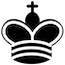
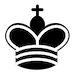
made piece size and square size equal for ease

diff --git a/src/utilities.py b/src/utilities.py
@@ -1,5 +1,4 @@
-from board import bd_obj, BD_SZ, SQ_SZ 
-from pieces.config import x_pos, p_size
+from board import bd_obj, BD_SZ, SQ_SZ
 from pieces.pieces import (
     w_pawns, b_pawns,
     w_majors, b_majors
@@ -13,25 +12,21 @@ def display_all(screen):
 
     bd_obj.show(screen)
 
-    x_change = x_pos
     for pawn in w_pawns:
-        if not pawn.captured:
-            pawn.show(screen) 
-        x_change += SQ_SZ
+        # if not pawn.captured:
+        pawn.show(screen)
 
     for w_piece in w_majors:
-        if not w_piece.captured:
-            w_piece.show(screen)
+        # if not w_piece.captured:
+        w_piece.show(screen)
 
-    x_change = x_pos
     for pawn in b_pawns:
-        if not pawn.captured:
-            pawn.show(screen) 
-        x_change += SQ_SZ
+        # if not pawn.captured:
+        pawn.show(screen) 
 
     for b_piece in b_majors:
-        if not b_piece.captured:
-            b_piece.show(screen)
+        # if not b_piece.captured:
+        b_piece.show(screen)
 
 
 def calc_sq_pos(mouse_pos):
@@ -40,7 +35,7 @@ def calc_sq_pos(mouse_pos):
     coeff_x = mouse_pos[0] // SQ_SZ
     coeff_y = mouse_pos[1] // SQ_SZ
 
-    return (SQ_SZ * coeff_x + 5, SQ_SZ * coeff_y + 5)
+    return (SQ_SZ * coeff_x, SQ_SZ * coeff_y)
 
 
 def fetch_piece(req_pos):
@@ -94,32 +89,32 @@ def flip_board():
     for w_pawn in w_pawns:
         w_pawn.set_pos(
             (
-                BD_SZ - w_pawn.pos[0] - p_size,
-                BD_SZ - w_pawn.pos[1] - p_size
+                BD_SZ - w_pawn.pos[0] - SQ_SZ,
+                BD_SZ - w_pawn.pos[1] - SQ_SZ
             )
         )
 
     for b_pawn in b_pawns:
         b_pawn.set_pos(
             (
-                BD_SZ - b_pawn.pos[0] - p_size,
-                BD_SZ - b_pawn.pos[1] - p_size
+                BD_SZ - b_pawn.pos[0] - SQ_SZ,
+                BD_SZ - b_pawn.pos[1] - SQ_SZ
             )
         )
 
     for w_major in w_majors:
         w_major.set_pos(
             (
-                BD_SZ - w_major.pos[0] - p_size,
-                BD_SZ - w_major.pos[1] - p_size
+                BD_SZ - w_major.pos[0] - SQ_SZ,
+                BD_SZ - w_major.pos[1] - SQ_SZ
             )
         )
 
     for b_major in b_majors:
         b_major.set_pos(
             (
-                BD_SZ - b_major.pos[0] - p_size,
-                BD_SZ - b_major.pos[1] - p_size
+                BD_SZ - b_major.pos[0] - SQ_SZ,
+                BD_SZ - b_major.pos[1] - SQ_SZ
             )
         )
 

diff --git a/src/pieces/pieces.py b/src/pieces/pieces.py
@@ -1,4 +1,4 @@
-from board import BD_SZ, SQ_SZ
+from board import BD_SZ, SQ_SZ, bd_x, bd_y
 from .config import *
 
 from .pawn import Pawn
@@ -75,21 +75,21 @@ def load_all_img():
 def set_pos_all():
     '''Set position of all objects'''
 
-    x_change = x_pos
+    x_change = 0
     for pawn in w_pawns:
-        pawn.set_pos((x_change, down_y_pos - SQ_SZ)) 
+        pawn.set_pos((bd_x + x_change, bd_y + BD_SZ - 2 * SQ_SZ)) 
         x_change += SQ_SZ
 
     for i, w_piece in enumerate(w_majors):
-        w_piece.set_pos((x_pos + (SQ_SZ * i), down_y_pos))
+        w_piece.set_pos((bd_x + SQ_SZ * i, bd_y + BD_SZ - SQ_SZ))
 
-    x_change = x_pos
+    x_change = 0
     for pawn in b_pawns:
-        pawn.set_pos((x_change, up_y_pos + SQ_SZ)) 
+        pawn.set_pos((bd_x + x_change, bd_y + SQ_SZ)) 
         x_change += SQ_SZ
 
     for i, b_piece in enumerate(b_majors):
-        b_piece.set_pos((x_pos + (SQ_SZ * i), up_y_pos))
+        b_piece.set_pos((bd_x + SQ_SZ * i, bd_y))
 
 
 def main():

diff --git a/src/game.py b/src/game.py
@@ -1,5 +1,4 @@
 import colour
-from board import bd_obj
 from config import S_WIDTH, S_HEIGHT
 from utilities import (
     display_all,
@@ -33,7 +32,7 @@ def gameplay(screen):
                 highlight_square(
                     screen,
                     colour.RED,
-                    (sq_pos1[0] - 5, sq_pos1[1] - 5)
+                    (sq_pos1[0], sq_pos1[1])
                 )
 
         for event in pygame.event.get():
@@ -76,8 +75,11 @@ def gameplay(screen):
                         piece.move(sq_pos2)
                     else:
                         print('Piece 2 :', piece)
-                        piece2.captured = True
+                        # piece2.captured = True 
+                        ''' Doesn't quite work because 
+                        the one in the list is unaffected'''
                         delete_piece(piece2)
+                        # For now it's ok, but later preserve state to move back & forth
                         piece.move(sq_pos2)
 
 

diff --git a/src/pieces/config.py b/src/pieces/config.py
@@ -1,5 +1,6 @@
 from board import BD_SZ, SQ_SZ, bd_x, bd_y
 
+
 # Image path specifications
 pieces_rel_path = '../assets/img/pieces/'
 img_names = [
@@ -13,12 +14,3 @@ img_names = [
     'rook', 
 ]
 img_ext = '.png'
-
-
-# Initial piece position
-x_pos = bd_x + 5
-up_y_pos = bd_y + 5
-down_y_pos = up_y_pos + (BD_SZ - SQ_SZ)
-
-# Piece image size
-p_size = 65
